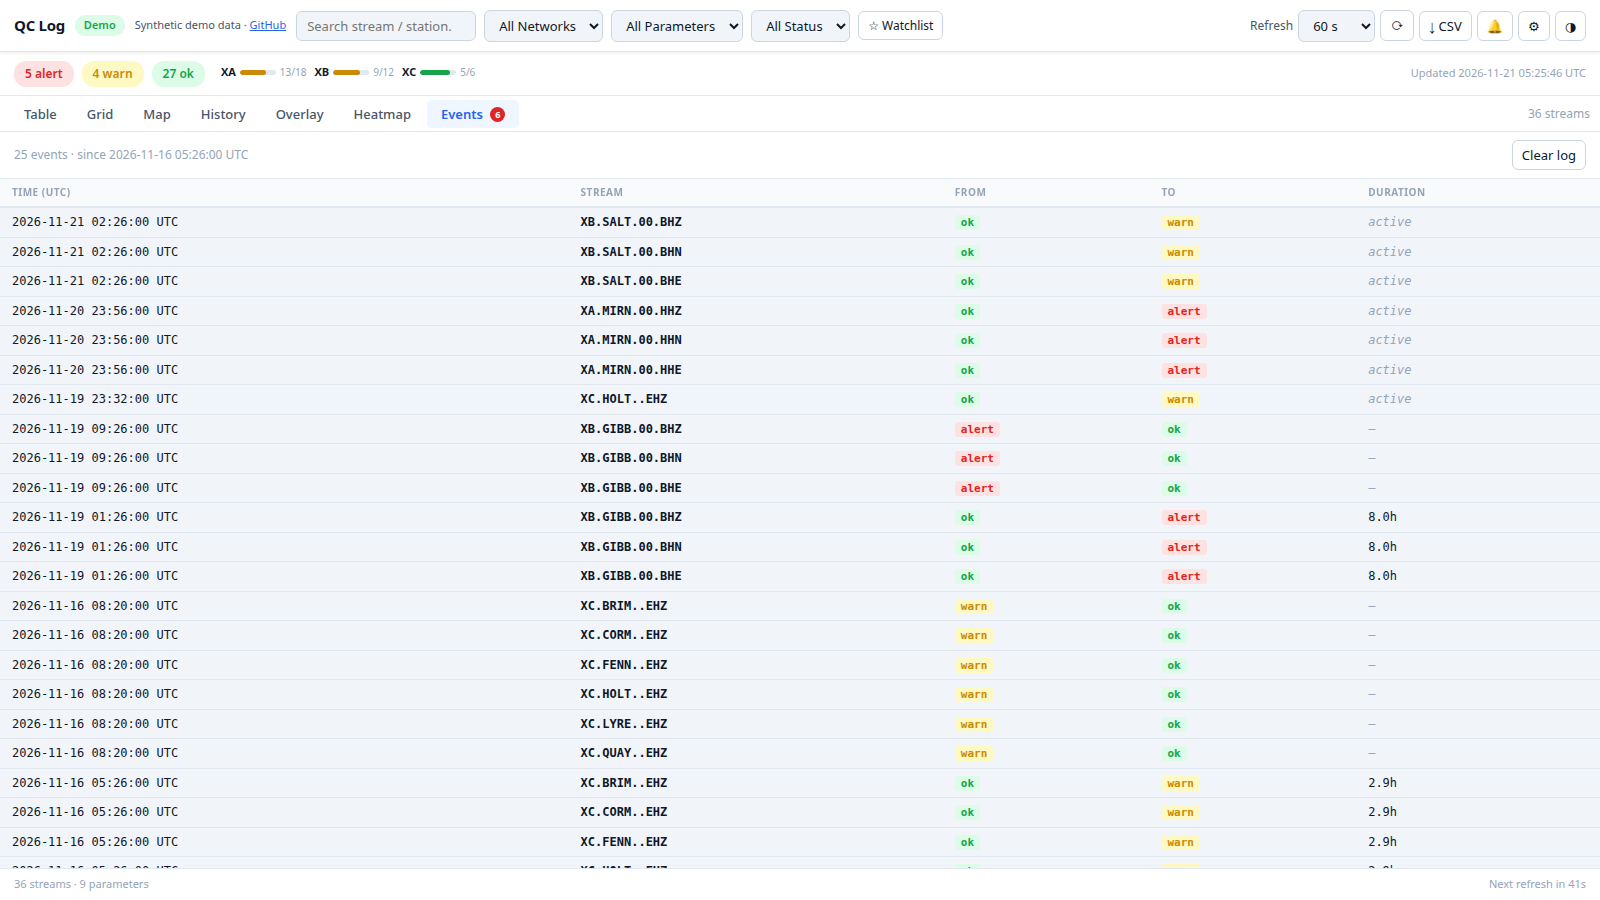
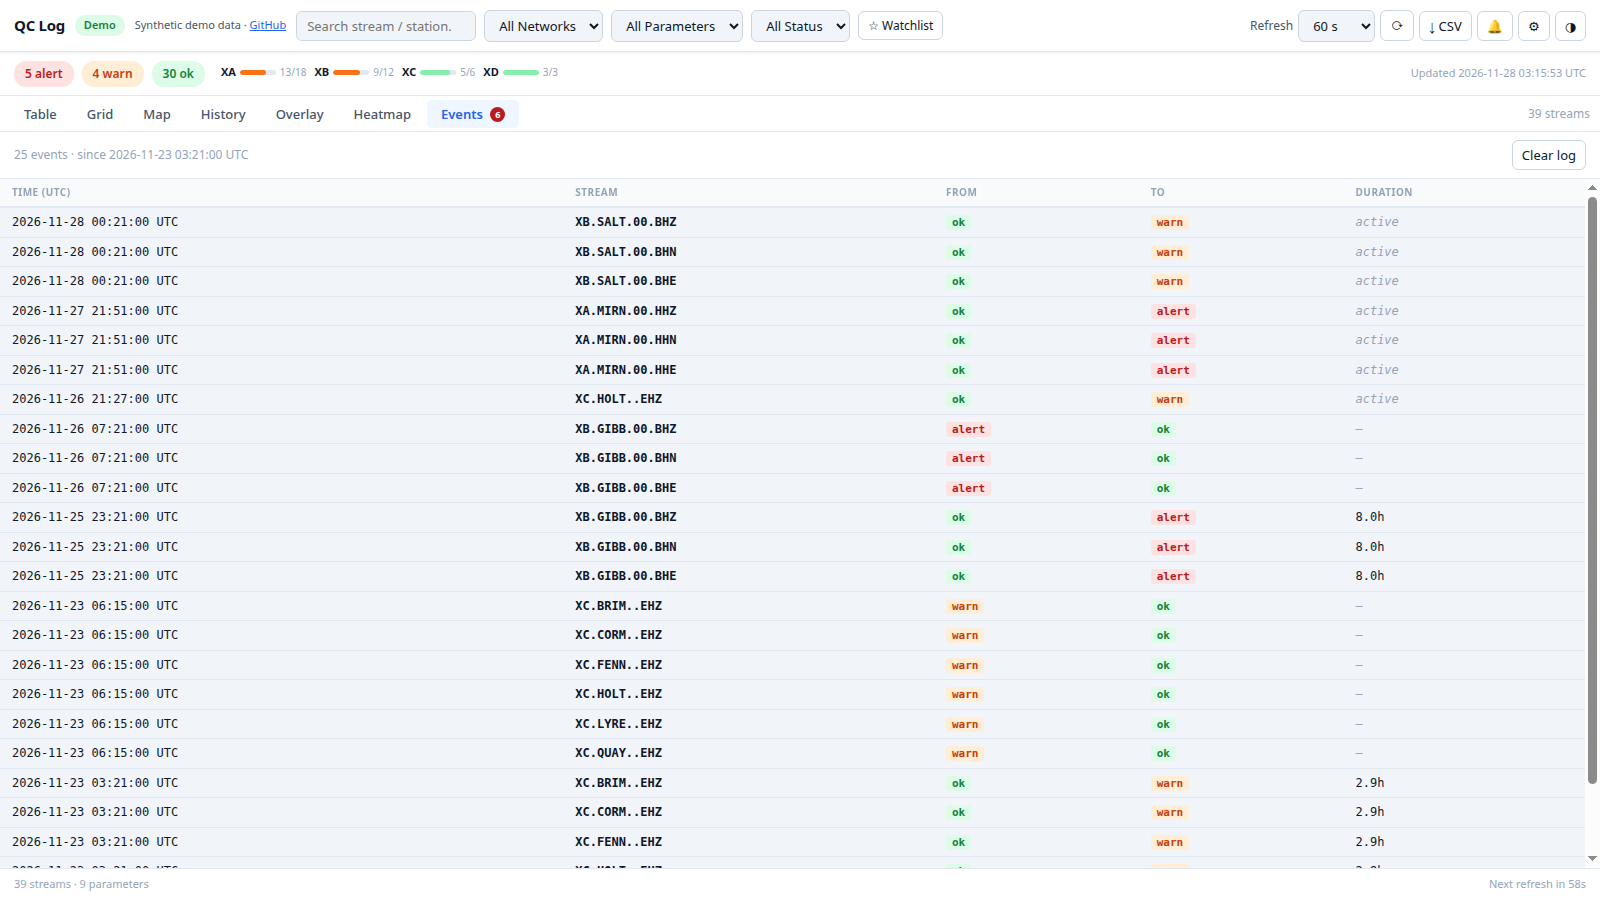
One status palette everywhere; flag timestamps in the future
Status colours are defined only in style.css: light green OK, orange
warning, dark red alert, grey no data, each as a solid fill, a text colour
and a tint. Severity rises in lightness as well as hue, so OK stays quiet
and the scale still reads for colour-blind users. The heatmap, chart
threshold bands and overlay lines used hardcoded colours and now read the
CSS variables. Grid cards and the map popup use dark text on the light OK
fill; the heatmap's no-data cells are a mid grey so they don't blur into
OK; the dark theme's OK tint is muted.

A negative delay or latency means data timestamped in the future (station
clock ahead). It was shown as '—' and coloured OK; it is now a warning,
shown with its sign and explained in the tooltip and map reason.

Screenshots retaken.

diff --git a/style.css b/style.css
@@ -13,21 +13,28 @@
   --accent:    #2563eb;
   --accent-bg: #eff6ff;
 
-  /* QC status colours */
-  --s-ok:      #16a34a;
-  --s-ok-bg:   #dcfce7;
-  --s-warn:    #ca8a04;
-  --s-warn-bg: #fef9c3;
-  --s-alert:   #dc2626;
-  --s-alert-bg:#fee2e2;
-  --s-nodata:  #64748b;
+  /* QC status colours: the only place they are defined (app.js refers to
+     these variables, the heatmap and charts read them with cssVar()).
+     Severity rises in lightness as well as hue: light green, orange, dark
+     red, so it still reads for colour-blind users.
+       --s-x     solid fill (map markers, grid cards, bars)
+       --s-x-fg  text on the page background or on the tint
+       --s-x-bg  tint behind text (table cells, badges) */
+  --s-ok:       #86efac;
+  --s-ok-fg:    #15803d;
+  --s-ok-bg:    #dcfce7;
+  --s-ok-on:    #14532d;   /* text on a solid OK fill (light, so dark text) */
+  --s-ok-edge:  rgba(15, 23, 42, .55);   /* edge for light OK markers on white land/tiles */
+  --s-warn:     #f97316;
+  --s-warn-fg:  #c2410c;
+  --s-warn-bg:  #ffedd5;
+  --s-alert:    #b91c1c;
+  --s-alert-fg: #b91c1c;
+  --s-alert-bg: #fee2e2;
+  --s-nodata:   #64748b;
+  --s-nodata-fg:#64748b;
   --s-nodata-bg:#f1f5f9;
-  --s-info:    #475569;
-  /* Map: OK stations muted so colour means "something is wrong" (as in
-     slmon2). Mid-tone with a dark edge, so it stays visible on white land,
-     light tiles and dark imagery alike. */
-  --s-ok-map:      #7fa88a;
-  --s-ok-map-edge: rgba(15, 23, 42, .55);
+  --s-info:     #475569;
 
   --hdr-h:     52px;
   --sbar-h:    44px;
@@ -49,9 +56,13 @@
   --text3:     #64748b;
   --accent:    #60a5fa;
   --accent-bg: #1e3a5f;
-  --s-ok-bg:   #14532d;
-  --s-warn-bg: #422006;
-  --s-alert-bg:#450a0a;
+  --s-ok-fg:    #4ade80;
+  --s-ok-bg:    #173325;   /* muted: OK should be the quiet state */
+  --s-warn-fg:  #fb923c;
+  --s-warn-bg:  #431407;
+  --s-alert-fg: #f87171;
+  --s-alert-bg: #450a0a;
+  --s-nodata-fg:#94a3b8;
   --s-nodata-bg:#1e293b;
 }
 
@@ -87,9 +98,9 @@ body {
 
 .badge { padding: 2px 9px; border-radius: 10px; font-size: 11px; font-weight: 600; }
 .badge-connecting { background: #e2e8f0; color: #475569; }
-.badge-live       { background: var(--s-ok-bg);    color: var(--s-ok); }
-.badge-stale      { background: var(--s-warn-bg);  color: var(--s-warn); cursor: help; }
-.badge-error      { background: var(--s-alert-bg); color: var(--s-alert); }
+.badge-live       { background: var(--s-ok-bg);    color: var(--s-ok-fg); }
+.badge-stale      { background: var(--s-warn-bg);  color: var(--s-warn-fg); cursor: help; }
+.badge-error      { background: var(--s-alert-bg); color: var(--s-alert-fg); }
 .demo-banner { font-size: 11px; color: var(--text2); white-space: nowrap; }
 .demo-banner[hidden] { display: none; }
 .demo-banner a { color: var(--accent); }
@@ -130,10 +141,10 @@ button:hover { background: var(--surface2); }
 }
 .scount:hover { opacity: .8; }
 .scount.active-filter { border-color: currentColor; }
-.scount.qc-ok     { background: var(--s-ok-bg);    color: var(--s-ok); }
-.scount.qc-warn   { background: var(--s-warn-bg);  color: var(--s-warn); }
-.scount.qc-alert  { background: var(--s-alert-bg); color: var(--s-alert); }
-.scount.qc-nodata { background: var(--s-nodata-bg);color: var(--s-nodata); border-color: var(--border2); }
+.scount.qc-ok     { background: var(--s-ok-bg);    color: var(--s-ok-fg); }
+.scount.qc-warn   { background: var(--s-warn-bg);  color: var(--s-warn-fg); }
+.scount.qc-alert  { background: var(--s-alert-bg); color: var(--s-alert-fg); }
+.scount.qc-nodata { background: var(--s-nodata-bg);color: var(--s-nodata-fg); border-color: var(--border2); }
 
 #net-breakdown {
   display: flex; gap: 8px; align-items: center; flex: 1;
@@ -212,9 +223,9 @@ th.sort-active { color: var(--accent); }
 .qc-cell:hover { filter: brightness(0.93); }
 .qc-cell.cell-active { outline: 2px solid var(--accent); outline-offset: -2px; }
 
-.qc-ok     { background: var(--s-ok-bg);    color: var(--s-ok); }
-.qc-warn   { background: var(--s-warn-bg);  color: var(--s-warn); }
-.qc-alert  { background: var(--s-alert-bg); color: var(--s-alert); }
+.qc-ok     { background: var(--s-ok-bg);    color: var(--s-ok-fg); }
+.qc-warn   { background: var(--s-warn-bg);  color: var(--s-warn-fg); }
+.qc-alert  { background: var(--s-alert-bg); color: var(--s-alert-fg); }
 .qc-nodata { background: var(--s-nodata-bg);color: var(--text3); }
 .qc-info   { background: transparent; color: var(--text2); }
 .qc-stale  { opacity: .6; }
@@ -231,8 +242,8 @@ th.sort-active { color: var(--accent); }
   color: var(--text3); padding: 1px 2px; cursor: pointer; line-height: 1;
   flex-shrink: 0;
 }
-.watch-btn:hover { color: var(--s-warn); }
-.watch-btn.watched { color: var(--s-warn); }
+.watch-btn:hover { color: var(--s-warn-fg); }
+.watch-btn.watched { color: var(--s-warn-fg); }
 
 .empty-state { text-align: center; padding: 60px 20px; color: var(--text3); font-size: 14px; }
 
@@ -450,6 +461,9 @@ th.sort-active { color: var(--accent); }
 .sta-card .card-val  { font-size: 10px; color: rgba(255,255,255,.9); font-family: monospace; white-space: nowrap; }
 .sta-card .card-lbl  { font-size: 9px; color: rgba(255,255,255,.65); white-space: nowrap; }
 .sta-card.qc-ok     { background: var(--s-ok); }
+.sta-card.qc-ok .card-code { color: var(--s-ok-on); text-shadow: none; }
+.sta-card.qc-ok .card-val  { color: var(--s-ok-on); }
+.sta-card.qc-ok .card-lbl  { color: var(--s-ok-on); opacity: .75; }
 .sta-card.qc-warn   { background: var(--s-warn); }
 .sta-card.qc-alert  { background: var(--s-alert); }
 .sta-card.qc-nodata { background: var(--text3); }
@@ -494,9 +508,9 @@ th.sort-active { color: var(--accent); }
 .map-prob.sel { background: var(--accent-bg); }
 .map-prob-code { font-family: monospace; font-weight: 700; font-size: 12px; }
 .map-prob-dur { font-size: 11px; color: var(--text3); font-variant-numeric: tabular-nums; }
-.map-prob-dur.recent { color: var(--s-alert); font-weight: 700; }
+.map-prob-dur.recent { color: var(--s-alert-fg); font-weight: 700; }
 .map-prob-why { grid-column: 2 / 4; font-size: 11px; color: var(--text2); white-space: nowrap; overflow: hidden; text-overflow: ellipsis; }
-.map-allok { padding: 16px 8px; color: var(--s-ok); font-weight: 600; text-align: center; }
+.map-allok { padding: 16px 8px; color: var(--s-ok-fg); font-weight: 600; text-align: center; }
 #map-foot { padding: 8px 12px; font-size: 11px; color: var(--text3); border-top: 1px solid var(--border); }
 
 /* Station labels and popups */
@@ -510,7 +524,7 @@ th.sort-active { color: var(--accent); }
 .mp-head { display: flex; align-items: center; justify-content: space-between; gap: 8px; }
 .mp-code { font-family: monospace; font-weight: 700; font-size: 14px; }
 .mp-status { padding: 1px 8px; border-radius: 10px; font-size: 11px; font-weight: 700; color: #fff; }
-.mp-status.qc-ok { background: var(--s-ok); } .mp-status.qc-warn { background: var(--s-warn); }
+.mp-status.qc-ok { background: var(--s-ok); color: var(--s-ok-on); } .mp-status.qc-warn { background: var(--s-warn); }
 .mp-status.qc-alert { background: var(--s-alert); } .mp-status.qc-nodata { background: var(--s-nodata); }
 .mp-reason { color: #475569; margin: 2px 0 6px; }
 .mp-stream { border-top: 1px solid #e2e8f0; padding: 5px 0; }
@@ -518,7 +532,8 @@ th.sort-active { color: var(--accent); }
 .mp-cha { font-family: monospace; font-weight: 700; flex: 1; }
 .mp-chips { display: flex; flex-wrap: wrap; gap: 3px; }
 .mp-chip { padding: 1px 5px; border-radius: 4px; font-size: 11px; background: #f1f5f9; color: #334155; }
-.mp-chip.qc-ok { background: #dcfce7; } .mp-chip.qc-warn { background: #fef9c3; }
+/* Popups stay light in both themes, so the light-theme tints are used here */
+.mp-chip.qc-ok { background: #dcfce7; } .mp-chip.qc-warn { background: #ffedd5; color: #9a3412; }
 .mp-chip.qc-alert { background: #fee2e2; color: #991b1b; } .mp-chip.qc-nodata { background: #e2e8f0; color: #64748b; }
 .mp-foot { display: flex; align-items: center; gap: 6px; border-top: 1px solid #e2e8f0; padding-top: 5px; color: #64748b; font-size: 11px; }
 .mp-foot .mp-btn { margin-left: auto; }
@@ -619,7 +634,7 @@ th.sort-active { color: var(--accent); }
    WATCHLIST-ONLY BUTTON
    ══════════════════════════════════════════════════════════ */
 #watchlist-only-btn { font-size: 12px; }
-#watchlist-only-btn.active { background: var(--s-warn-bg); color: var(--s-warn); border-color: var(--s-warn); }
+#watchlist-only-btn.active { background: var(--s-warn-bg); color: var(--s-warn-fg); border-color: var(--s-warn-fg); }
 
 /* ══════════════════════════════════════════════════════════
    NOTIFICATIONS BUTTON
@@ -740,10 +755,10 @@ th.sort-active { color: var(--accent); }
 }
 .ev-stream { font-weight: 600; }
 .ev-from, .ev-to { padding: 1px 6px; border-radius: 3px; font-size: 11px; font-weight: 700; }
-.ev-from.qc-ok, .ev-to.qc-ok     { background: var(--s-ok-bg);    color: var(--s-ok); }
-.ev-from.qc-warn, .ev-to.qc-warn  { background: var(--s-warn-bg);  color: var(--s-warn); }
-.ev-from.qc-alert, .ev-to.qc-alert { background: var(--s-alert-bg); color: var(--s-alert); }
-.ev-from.qc-nodata, .ev-to.qc-nodata { background: var(--s-nodata-bg); color: var(--s-nodata); }
+.ev-from.qc-ok, .ev-to.qc-ok     { background: var(--s-ok-bg);    color: var(--s-ok-fg); }
+.ev-from.qc-warn, .ev-to.qc-warn  { background: var(--s-warn-bg);  color: var(--s-warn-fg); }
+.ev-from.qc-alert, .ev-to.qc-alert { background: var(--s-alert-bg); color: var(--s-alert-fg); }
+.ev-from.qc-nodata, .ev-to.qc-nodata { background: var(--s-nodata-bg); color: var(--s-nodata-fg); }
 .ev-badge {
   display: inline-block; background: var(--s-alert); color: #fff;
   font-size: 9px; font-weight: 700; border-radius: 8px;

diff --git a/app.js b/app.js
@@ -115,11 +115,24 @@ function posTooltip(tt, cx, cy) {
 }
 
 function fmtSec(s) {
-  if (s == null || s < 0) return '—';
+  if (s == null) return '—';
+  if (s < 0) return '−' + fmtSec(-s);   // future timestamp: keep it visible
   if (s < 60)    return `${s.toFixed(1)}s`;
   if (s < 3600)  return `${(s/60).toFixed(1)}m`;
   if (s < 86400) return `${(s/3600).toFixed(1)}h`;
   return `${(s/86400).toFixed(1)}d`;
+}
+
+// Status colours are defined in style.css only. Canvas and Plotly need real
+// colour values, so they read the variables here.
+function cssVar(name) {
+  return getComputedStyle(document.body).getPropertyValue(name).trim();
+}
+function cssAlpha(name, a) {
+  let h = cssVar(name).replace('#', '');
+  if (h.length === 3) h = h.replace(/./g, '$&$&');
+  const n = parseInt(h, 16);
+  return `rgba(${n >> 16 & 255},${n >> 8 & 255},${n & 255},${a})`;
 }
 
 const fmtTime = ms => ms ? new Date(ms).toISOString().slice(0,19).replace('T',' ')+' UTC' : '—';
@@ -294,8 +307,15 @@ async function loadDemoEvents() {
   } catch(_) {}
 }
 
+// A negative delay or latency means the data is timestamped in the future:
+// the station clock is ahead (timing/GPS fault). Allow a little jitter.
+const FUTURE_TOL_S = 2;
+const isFuture = (param, value) =>
+  (param === 'delay' || param === 'latency') && value != null && value < -FUTURE_TOL_S;
+
 function cellStatus(param, value) {
   if (value == null) return 'nodata';
+  if (isFuture(param, value)) return 'warn';   // whatever the thresholds say
   const thr = S.prefs.thresholds[param];
   if (!thr) return 'info';   // no threshold = informational only
   const { warn, alert, lowerWorse } = thr;
@@ -576,7 +596,7 @@ function renderTable() {
       const spark = entry?.spark ? buildSparkline(entry.spark) : '';
       return `<td class="qc-cell qc-${st}${stale ? ' qc-stale' : ''}"
                   data-stream="${esc(sid)}" data-param="${esc(p)}"
-                  title="${esc(p.replace(/_/g,' '))}: ${PARAMS[p].fmt(val)}${stale ? ' (stale)' : ''}">
+                  title="${esc(p.replace(/_/g,' '))}: ${PARAMS[p].fmt(val)}${isFuture(p, val) ? ' (timestamp in the future: station clock ahead?)' : ''}${stale ? ' (stale)' : ''}">
         <div class="cell-inner">
           <span class="cell-val">${PARAMS[p].fmt(val)}</span>
           ${spark}
@@ -725,14 +745,14 @@ function drawChart() {
         const warnY  = u.valToPos(thr.warn,  'y', true);
         const alertY = u.valToPos(thr.alert, 'y', true);
         if (thr.lowerWorse) {
-          ctx.fillStyle = 'rgba(234,88,12,0.08)';
+          ctx.fillStyle = cssAlpha('--s-warn', 0.1);
           ctx.fillRect(left, alertY, width, warnY - alertY);
-          ctx.fillStyle = 'rgba(220,38,38,0.1)';
+          ctx.fillStyle = cssAlpha('--s-alert', 0.1);
           ctx.fillRect(left, top, width, alertY - top);
         } else {
-          ctx.fillStyle = 'rgba(234,88,12,0.08)';
+          ctx.fillStyle = cssAlpha('--s-warn', 0.1);
           ctx.fillRect(left, warnY, width, alertY - warnY);
-          ctx.fillStyle = 'rgba(220,38,38,0.1)';
+          ctx.fillStyle = cssAlpha('--s-alert', 0.1);
           ctx.fillRect(left, alertY, width, top + height - alertY);
         }
         ctx.restore();
@@ -882,8 +902,8 @@ let _mapFitted   = false;
 const MAP_LABEL_ZOOM = 7;    // permanent station labels from this zoom
 const MAP_RECENT_MS  = 15 * 60_000;   // pulse stations that changed this recently
 const STALE_MS       = 30 * 60_000;   // same rule as the table's stale cells
-// Colours live in style.css only (one source, follows the theme); OK is muted on the map
-const STATUS_COLOR   = { ok: 'var(--s-ok-map)', warn: 'var(--s-warn)', alert: 'var(--s-alert)', nodata: 'var(--s-nodata)' };
+// Colours live in style.css only (one source, follows the theme)
+const STATUS_COLOR   = { ok: 'var(--s-ok)', warn: 'var(--s-warn)', alert: 'var(--s-alert)', nodata: 'var(--s-nodata)' };
 const STATUS_LABEL   = { alert: 'Alert', nodata: 'No data', warn: 'Warning', ok: 'OK' };
 
 function initMap() {
@@ -1085,7 +1105,8 @@ function mapStations(colorBy) {
     culprits.sort((a, b) => order.indexOf(a.param) - order.indexOf(b.param));
     const seen = new Set();
     st.reasons = culprits.filter(c => !seen.has(c.param) && seen.add(c.param))
-      .map(c => c.v == null ? PARAMS[c.param].label : `${PARAMS[c.param].label} ${PARAMS[c.param].fmt(c.v)}`);
+      .map(c => c.v == null ? PARAMS[c.param].label
+        : `${PARAMS[c.param].label} ${PARAMS[c.param].fmt(c.v)}${isFuture(c.param, c.v) ? ' (in the future)' : ''}`);
     st.status = status;
     st.newest = newest || null;
     st.stale  = newest > 0 && now - newest > STALE_MS;
@@ -1272,7 +1293,7 @@ function refreshMapMarkers() {
 // set with style (SVG presentation attributes do not resolve var()).
 function stationIcon(col, size, stale, watched, quiet) {
   const w = size, h = Math.round(size * 0.9);
-  const stroke = watched ? '#2563eb' : quiet ? 'var(--s-ok-map-edge)' : '#fff';
+  const stroke = watched ? '#2563eb' : quiet ? 'var(--s-ok-edge)' : '#fff';
   const sw = watched ? 2.5 : quiet ? 1.2 : 1.5;
   const tri = 'M1.5 1.5 H18.5 L10 16.5 Z';
   // OK: a light halo under the dark edge, so it shows on dark imagery as well as on white
@@ -1407,11 +1428,11 @@ function drawHistoryChart(histData, stream, param, from_ms, to_ms) {
       const warnY  = u.valToPos(thr.warn,  'y', true);
       const alertY = u.valToPos(thr.alert, 'y', true);
       if (thr.lowerWorse) {
-        ctx.fillStyle = 'rgba(234,88,12,0.08)'; ctx.fillRect(left, alertY, width, warnY - alertY);
-        ctx.fillStyle = 'rgba(220,38,38,0.1)';  ctx.fillRect(left, top, width, alertY - top);
+        ctx.fillStyle = cssAlpha('--s-warn', 0.1); ctx.fillRect(left, alertY, width, warnY - alertY);
+        ctx.fillStyle = cssAlpha('--s-alert', 0.1);  ctx.fillRect(left, top, width, alertY - top);
       } else {
-        ctx.fillStyle = 'rgba(234,88,12,0.08)'; ctx.fillRect(left, warnY, width, alertY - warnY);
-        ctx.fillStyle = 'rgba(220,38,38,0.1)';  ctx.fillRect(left, alertY, width, top + height - alertY);
+        ctx.fillStyle = cssAlpha('--s-warn', 0.1); ctx.fillRect(left, warnY, width, alertY - warnY);
+        ctx.fillStyle = cssAlpha('--s-alert', 0.1);  ctx.fillRect(left, alertY, width, top + height - alertY);
       }
       ctx.restore();
     }]};
@@ -2160,8 +2181,8 @@ function drawOverlayChart(histData, param, from_ms, to_ms) {
   // Threshold shapes
   const thr    = S.prefs.thresholds[param];
   const shapes = [];
-  if (thr?.warn  != null) shapes.push({ type: 'line', xref: 'paper', x0: 0, x1: 1, y0: thr.warn,  y1: thr.warn,  line: { color: '#ca8a04', width: 1, dash: 'dash' } });
-  if (thr?.alert != null) shapes.push({ type: 'line', xref: 'paper', x0: 0, x1: 1, y0: thr.alert, y1: thr.alert, line: { color: '#dc2626', width: 1, dash: 'dot'  } });
+  if (thr?.warn  != null) shapes.push({ type: 'line', xref: 'paper', x0: 0, x1: 1, y0: thr.warn,  y1: thr.warn,  line: { color: cssVar('--s-warn'), width: 1, dash: 'dash' } });
+  if (thr?.alert != null) shapes.push({ type: 'line', xref: 'paper', x0: 0, x1: 1, y0: thr.alert, y1: thr.alert, line: { color: cssVar('--s-alert'), width: 1, dash: 'dot'  } });
 
   const traces = streams.map(s => {
     const pts   = histData.streams[s]?.[param] ?? [];
@@ -2280,7 +2301,7 @@ async function loadHeatmap() {
     renderHeatmap(data, param, data.from, data.to, data.bin_ms ?? 600_000);
   } catch(_) {
     document.getElementById('heatmap-labels').innerHTML =
-      '<div class="hm-label" style="color:var(--s-alert)">Failed to load.</div>';
+      '<div class="hm-label" style="color:var(--s-alert-fg)">Failed to load.</div>';
   }
 }
 
@@ -2304,13 +2325,14 @@ function renderHeatmap(histData, param, from_ms, to_ms, bin_ms) {
   const canvasW = bins.length * CELL_W;
   const canvasH = streams.length * CELL_H;
 
-  // Status colours (resolved from CSS vars via computed style fallback)
+  // Status colours from style.css. No data is a mid grey, darker than the
+  // light OK green, so the two do not blur together.
   const isDark  = document.body.classList.contains('dark');
   const colMap  = {
-    ok:     '#16a34a',
-    warn:   '#ca8a04',
-    alert:  '#dc2626',
-    nodata: isDark ? '#1e293b' : '#e2e8f0',
+    ok:     cssVar('--s-ok'),
+    warn:   cssVar('--s-warn'),
+    alert:  cssVar('--s-alert'),
+    nodata: cssVar('--text3'),
     info:   isDark ? '#263347' : '#f1f5f9',
   };
 

diff --git a/tests/smoke_test.py b/tests/smoke_test.py
@@ -127,6 +127,13 @@ CHECKS = [
                    "document.getElementById('filter-net').dispatchEvent(new Event('change'));"
                    "document.querySelector('.qc-cell[data-param]').click()",
      "!!document.querySelector('#chart-wrap .uplot')"),
+    ('future timestamp', "",
+     # Negative delay/latency = station clock ahead: a warning, shown with its sign
+     "cellStatus('latency', -10) === 'warn' && cellStatus('delay', -10) === 'warn'"
+     " && cellStatus('latency', -1) !== 'warn' && fmtSec(-90).startsWith('−')"),
+    ('palette', "",
+     # Status colours come from style.css (light-green OK, orange, dark red)
+     "cssVar('--s-ok') === '#86efac' && cssVar('--s-warn') === '#f97316' && cssVar('--s-alert') === '#b91c1c'"),
     ('grid', "closeChart(); switchView('grid')",
      "document.querySelectorAll('.sta-card').length > 0"),
     ('map', "switchView('map')",
